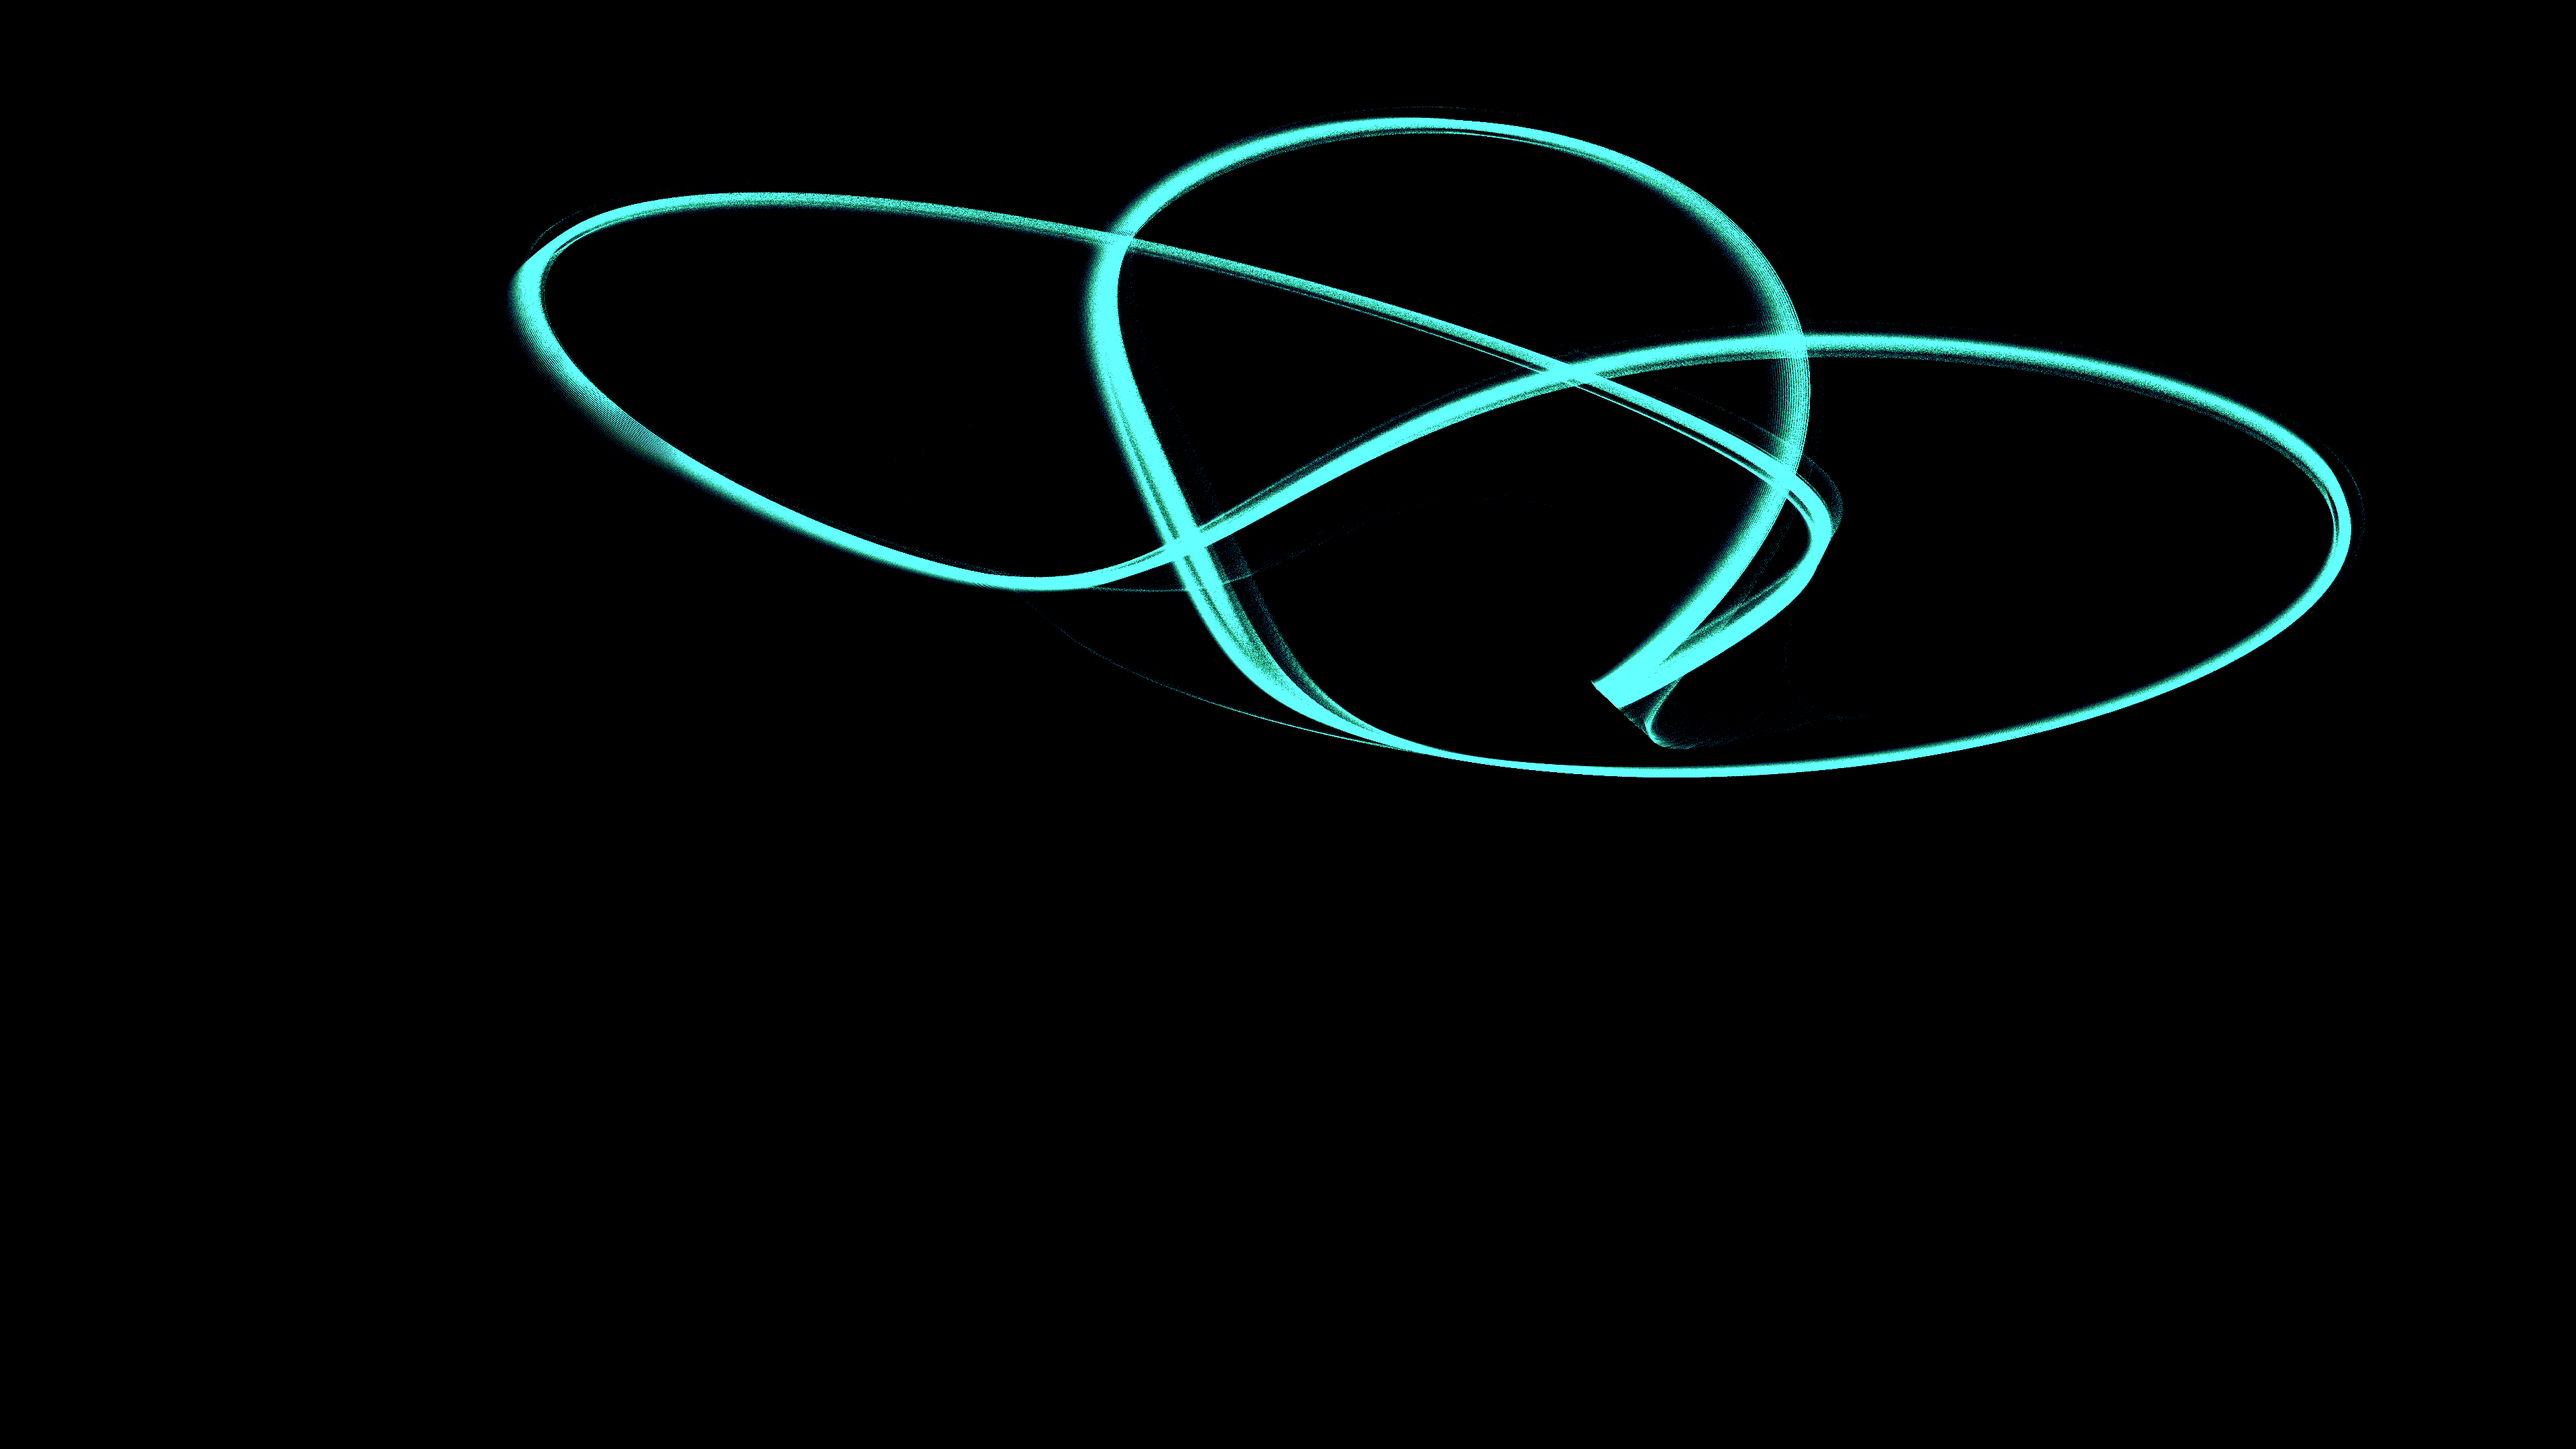
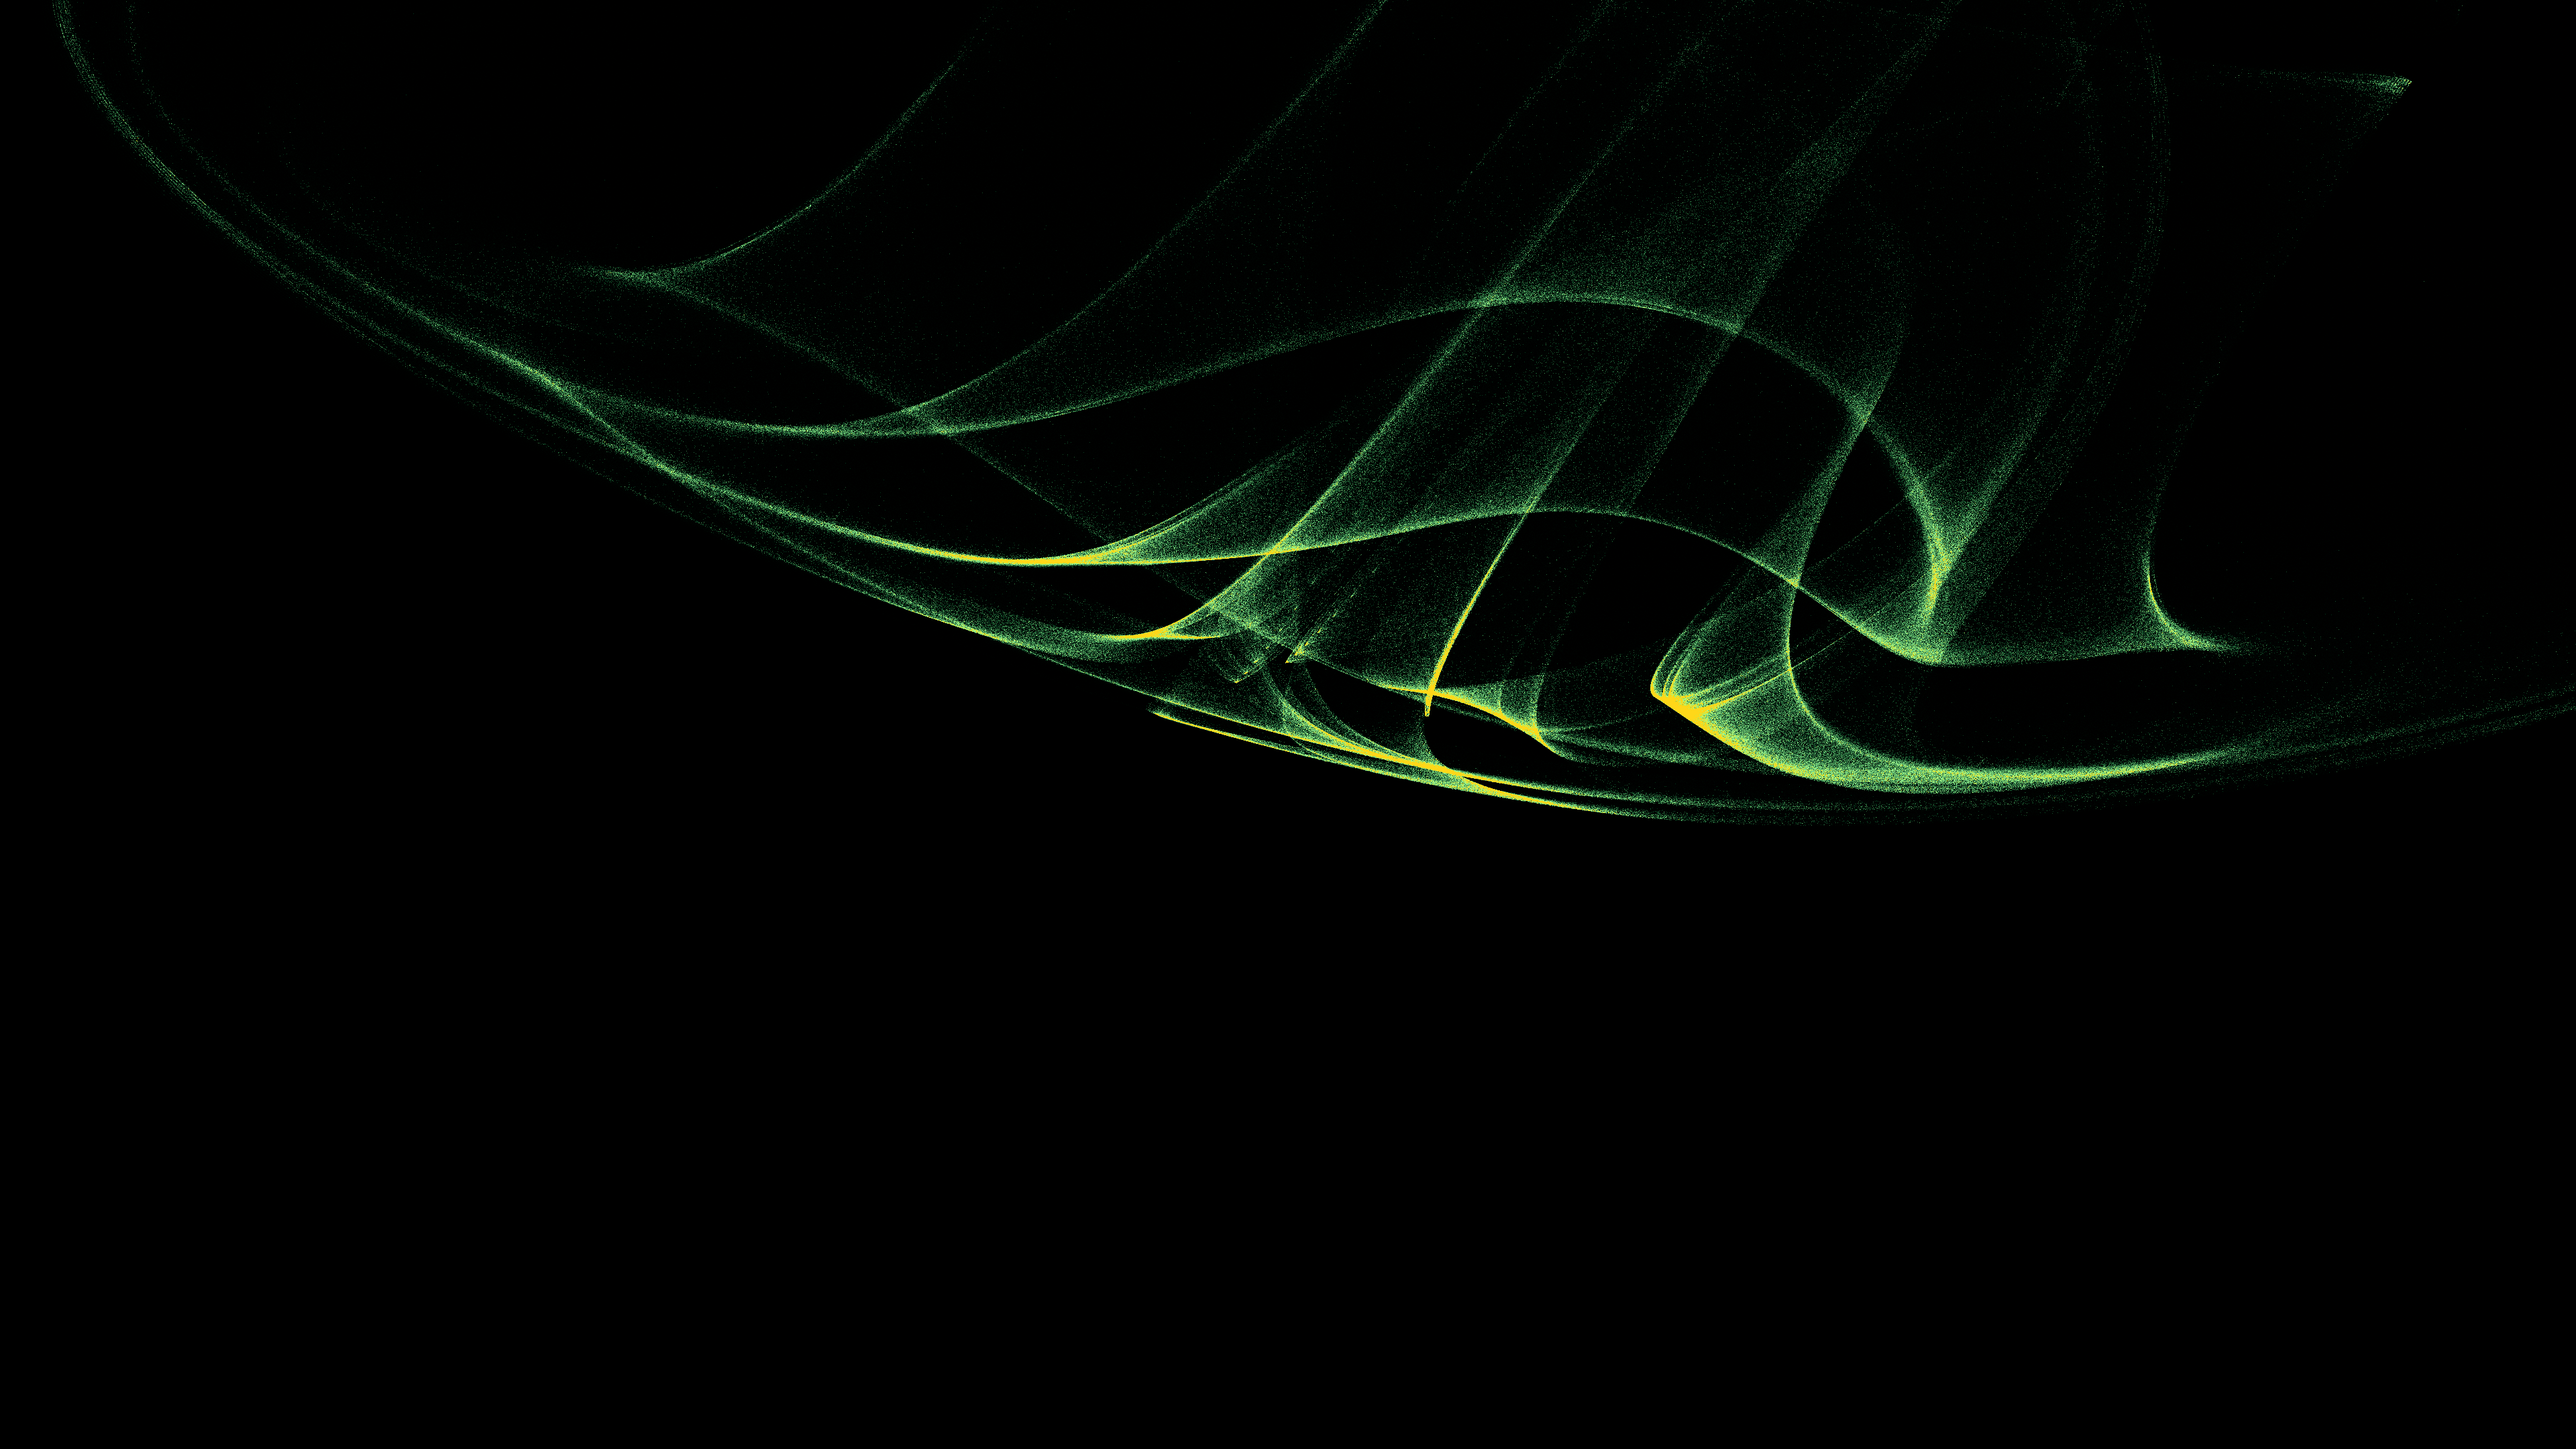
feat: add kinetic_halvorsen_attractor_2d

Changed region(s): [[0.1562, 0.062, 0.9375, 0.5583], [0.8438, 0.4963, 0.9062, 0.5273]]

diff --git a/sketch/kinetic_halvorsen_attractor_2d/main.py b/sketch/kinetic_halvorsen_attractor_2d/main.py
@@ -26,28 +26,28 @@ SIZE = OUTPUT_SIZE
 # Simulation state
 N = 1000000
 # Initial points spread around the origin
-x = np.random.uniform(-1, 1, N).astype(np.float32)
-y = np.random.uniform(-1, 1, N).astype(np.float32)
-z = np.random.uniform(-1, 1, N).astype(np.float32)
+x = np.random.uniform(-0.1, 0.1, N).astype(np.float32)
+y = np.random.uniform(-0.1, 0.1, N).astype(np.float32)
+z = np.random.uniform(-0.1, 0.1, N).astype(np.float32)
 
 density_buffer = np.zeros((SIZE[1], SIZE[0]), dtype=np.float32)
 
-def step_halvorsen(a, dt=0.005):
+def step_halvorsen(a, dt=0.01):
     global x, y, z
-    # Euler integration step for the Halvorsen attractor
-    dx = -a * x - 4.0 * y - 4.0 * z - y**2
-    dy = -a * y - 4.0 * z - 4.0 * x - z**2
-    dz = -a * z - 4.0 * x - 4.0 * y - x**2
+    # Euler integration step for the Halvorsen Attractor
+    dx = -a * x - 4 * y - 4 * z - y**2
+    dy = -a * y - 4 * z - 4 * x - z**2
+    dz = -a * z - 4 * x - 4 * y - x**2
     
     x_new = x + dx * dt
     y_new = y + dy * dt
     z_new = z + dz * dt
     
     # Keep particles bounded just in case
-    mask = (np.abs(x_new) > 30) | (np.abs(y_new) > 30) | (np.abs(z_new) > 30) | np.isnan(x_new)
-    x_new[mask] = np.random.uniform(-1, 1, np.sum(mask)).astype(np.float32)
-    y_new[mask] = np.random.uniform(-1, 1, np.sum(mask)).astype(np.float32)
-    z_new[mask] = np.random.uniform(-1, 1, np.sum(mask)).astype(np.float32)
+    mask = (np.abs(x_new) > 20) | (np.abs(y_new) > 20) | (np.abs(z_new) > 20) | np.isnan(x_new)
+    x_new[mask] = np.random.uniform(-0.1, 0.1, np.sum(mask)).astype(np.float32)
+    y_new[mask] = np.random.uniform(-0.1, 0.1, np.sum(mask)).astype(np.float32)
+    z_new[mask] = np.random.uniform(-0.1, 0.1, np.sum(mask)).astype(np.float32)
     
     x[:] = x_new
     y[:] = y_new
@@ -64,11 +64,11 @@ def draw():
     t = py5.frame_count * 2 * np.pi / TOTAL_FRAMES
     
     # Halvorsen parameter with continuous modulation
-    a = 1.89 + 0.1 * np.sin(t)
+    a = 1.4 + 0.1 * np.sin(t)
     
     # Run integration steps
     for _ in range(5):
-        step_halvorsen(a, dt=0.002)
+        step_halvorsen(a, dt=0.005)
         
     # Rotate 3D attractor gently over time
     theta = t * 0.4
@@ -85,9 +85,9 @@ def draw():
     z_rot2 = y_rot1 * np.sin(phi) + z_rot1 * np.cos(phi)
     
     # Map to screen
-    # Halvorsen typical size: x,y in [-15, 15], z in [-15, 15]
-    screen_x = (x_rot2 + 15.0) / 30.0 * SIZE[0]
-    screen_y = (y_rot2 + 15.0) / 30.0 * SIZE[1]
+    # Halvorsen typical size: x,y,z in [-10, 10]
+    screen_x = (x_rot2 + 10.0) / 20.0 * SIZE[0]
+    screen_y = (y_rot2 + 10.0) / 20.0 * SIZE[1]
     
     # Fast 2D histogram
     H, _, _ = np.histogram2d(screen_y, screen_x, bins=(SIZE[1], SIZE[0]), range=[[0, SIZE[1]], [0, SIZE[0]]])
@@ -99,25 +99,25 @@ def draw():
     py5.load_np_pixels()
     
     # Map density to colors
-    # Palette: Emerald Green, Cyan, and Deep Midnight Blue
+    # Palette: Emerald, Mint, and Gold
     density_norm = np.clip(density_buffer / 12.0, 0, 1)
     
-    # Deep Midnight Blue base
+    # Emerald base
     r_col = 0 * (density_norm ** 1.5)
-    g_col = 20 * (density_norm ** 1.5)
-    b_col = 60 * (density_norm ** 1.5)
+    g_col = 50 * (density_norm ** 1.5)
+    b_col = 25 * (density_norm ** 1.5)
     
-    # Emerald Green midtones
-    em_mask = (density_norm > 0.3) & (density_norm < 0.7)
-    r_col[em_mask] = np.maximum(r_col[em_mask], 0 + 40 * ((density_norm[em_mask] - 0.3) / 0.4))
-    g_col[em_mask] = np.maximum(g_col[em_mask], 20 + 160 * ((density_norm[em_mask] - 0.3) / 0.4))
-    b_col[em_mask] = np.maximum(b_col[em_mask], 60 + 60 * ((density_norm[em_mask] - 0.3) / 0.4))
+    # Mint midtones
+    mint_mask = (density_norm > 0.3) & (density_norm < 0.7)
+    r_col[mint_mask] = np.maximum(r_col[mint_mask], 0 + 152 * ((density_norm[mint_mask] - 0.3) / 0.4))
+    g_col[mint_mask] = np.maximum(g_col[mint_mask], 50 + 205 * ((density_norm[mint_mask] - 0.3) / 0.4))
+    b_col[mint_mask] = np.maximum(b_col[mint_mask], 25 + 128 * ((density_norm[mint_mask] - 0.3) / 0.4))
     
-    # Cyan highlights
-    cy_mask = density_norm > 0.7
-    r_col[cy_mask] = np.maximum(r_col[cy_mask], 40 + 60 * ((density_norm[cy_mask] - 0.7) / 0.3))
-    g_col[cy_mask] = np.maximum(g_col[cy_mask], 180 + 75 * ((density_norm[cy_mask] - 0.7) / 0.3))
-    b_col[cy_mask] = np.maximum(b_col[cy_mask], 120 + 135 * ((density_norm[cy_mask] - 0.7) / 0.3))
+    # Gold highlights
+    gold_mask = density_norm > 0.7
+    r_col[gold_mask] = np.maximum(r_col[gold_mask], 152 + 103 * ((density_norm[gold_mask] - 0.7) / 0.3))
+    g_col[gold_mask] = np.maximum(g_col[gold_mask], 255 - 40 * ((density_norm[gold_mask] - 0.7) / 0.3))
+    b_col[gold_mask] = np.maximum(b_col[gold_mask], 153 - 153 * ((density_norm[gold_mask] - 0.7) / 0.3))
     
     py5.np_pixels[:, :, 0] = 255
     py5.np_pixels[:, :, 1] = r_col.astype(np.uint8)

diff --git a/sketch/WORKS.md b/sketch/WORKS.md
@@ -1,3 +1,10 @@
+## kinetic_halvorsen_attractor_2d
+- **Date**: 2026-07-25
+- **Type**: Animation (900 frames, 60fps)
+- **Concept**: A continuous 3D chaotic flow with intricate cyclic symmetry.
+- **Techniques**: The Halvorsen Attractor. We numerically integrate the continuous differential equations using the Euler method for 1M particles. The symmetric cubic structures are rotated and orthographically projected onto the 2D plane, gently modulating the parameter `a` over time.
+- **Palette**: Emerald, Mint, and Gold.
+
 ## kinetic_sprott_case_f_attractor_2d
 - **Date**: 2026-07-25
 - **Type**: Animation (900 frames, 60fps)

diff --git a/.agents/FEEDBACK.md b/.agents/FEEDBACK.md
@@ -4,6 +4,12 @@
 Agents MUST NOT write anything in the `Comment` field. When registering a new work, Agents must leave the `Rating` and `Comment` fields empty or with their default labels as placeholders for the user.
 The Artist reads this file before starting a new sketch to understand preferences.
 
+## kinetic_halvorsen_attractor_2d
+
+- **Rating**: 
+- **Comment**: 
+
+
 ## kinetic_sprott_case_f_attractor_2d
 
 - **Rating**: 
